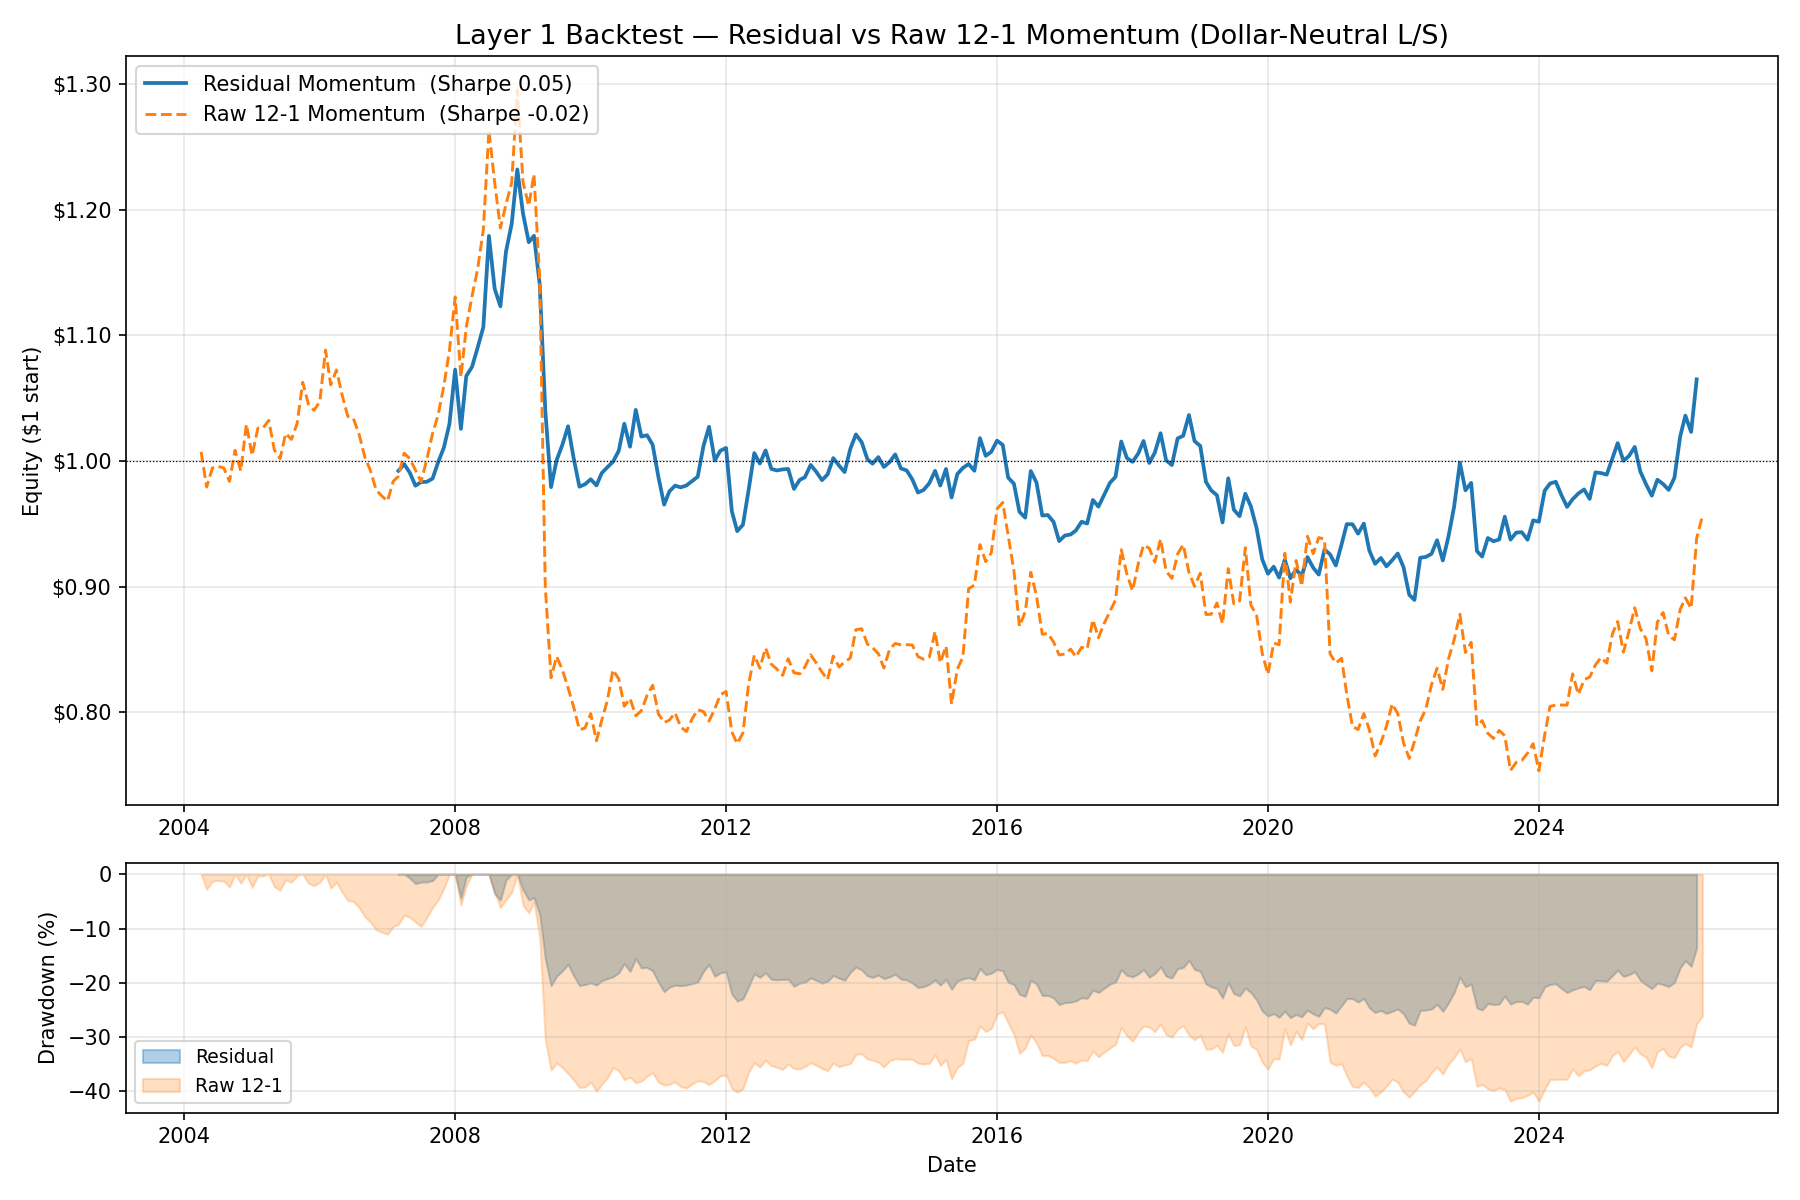
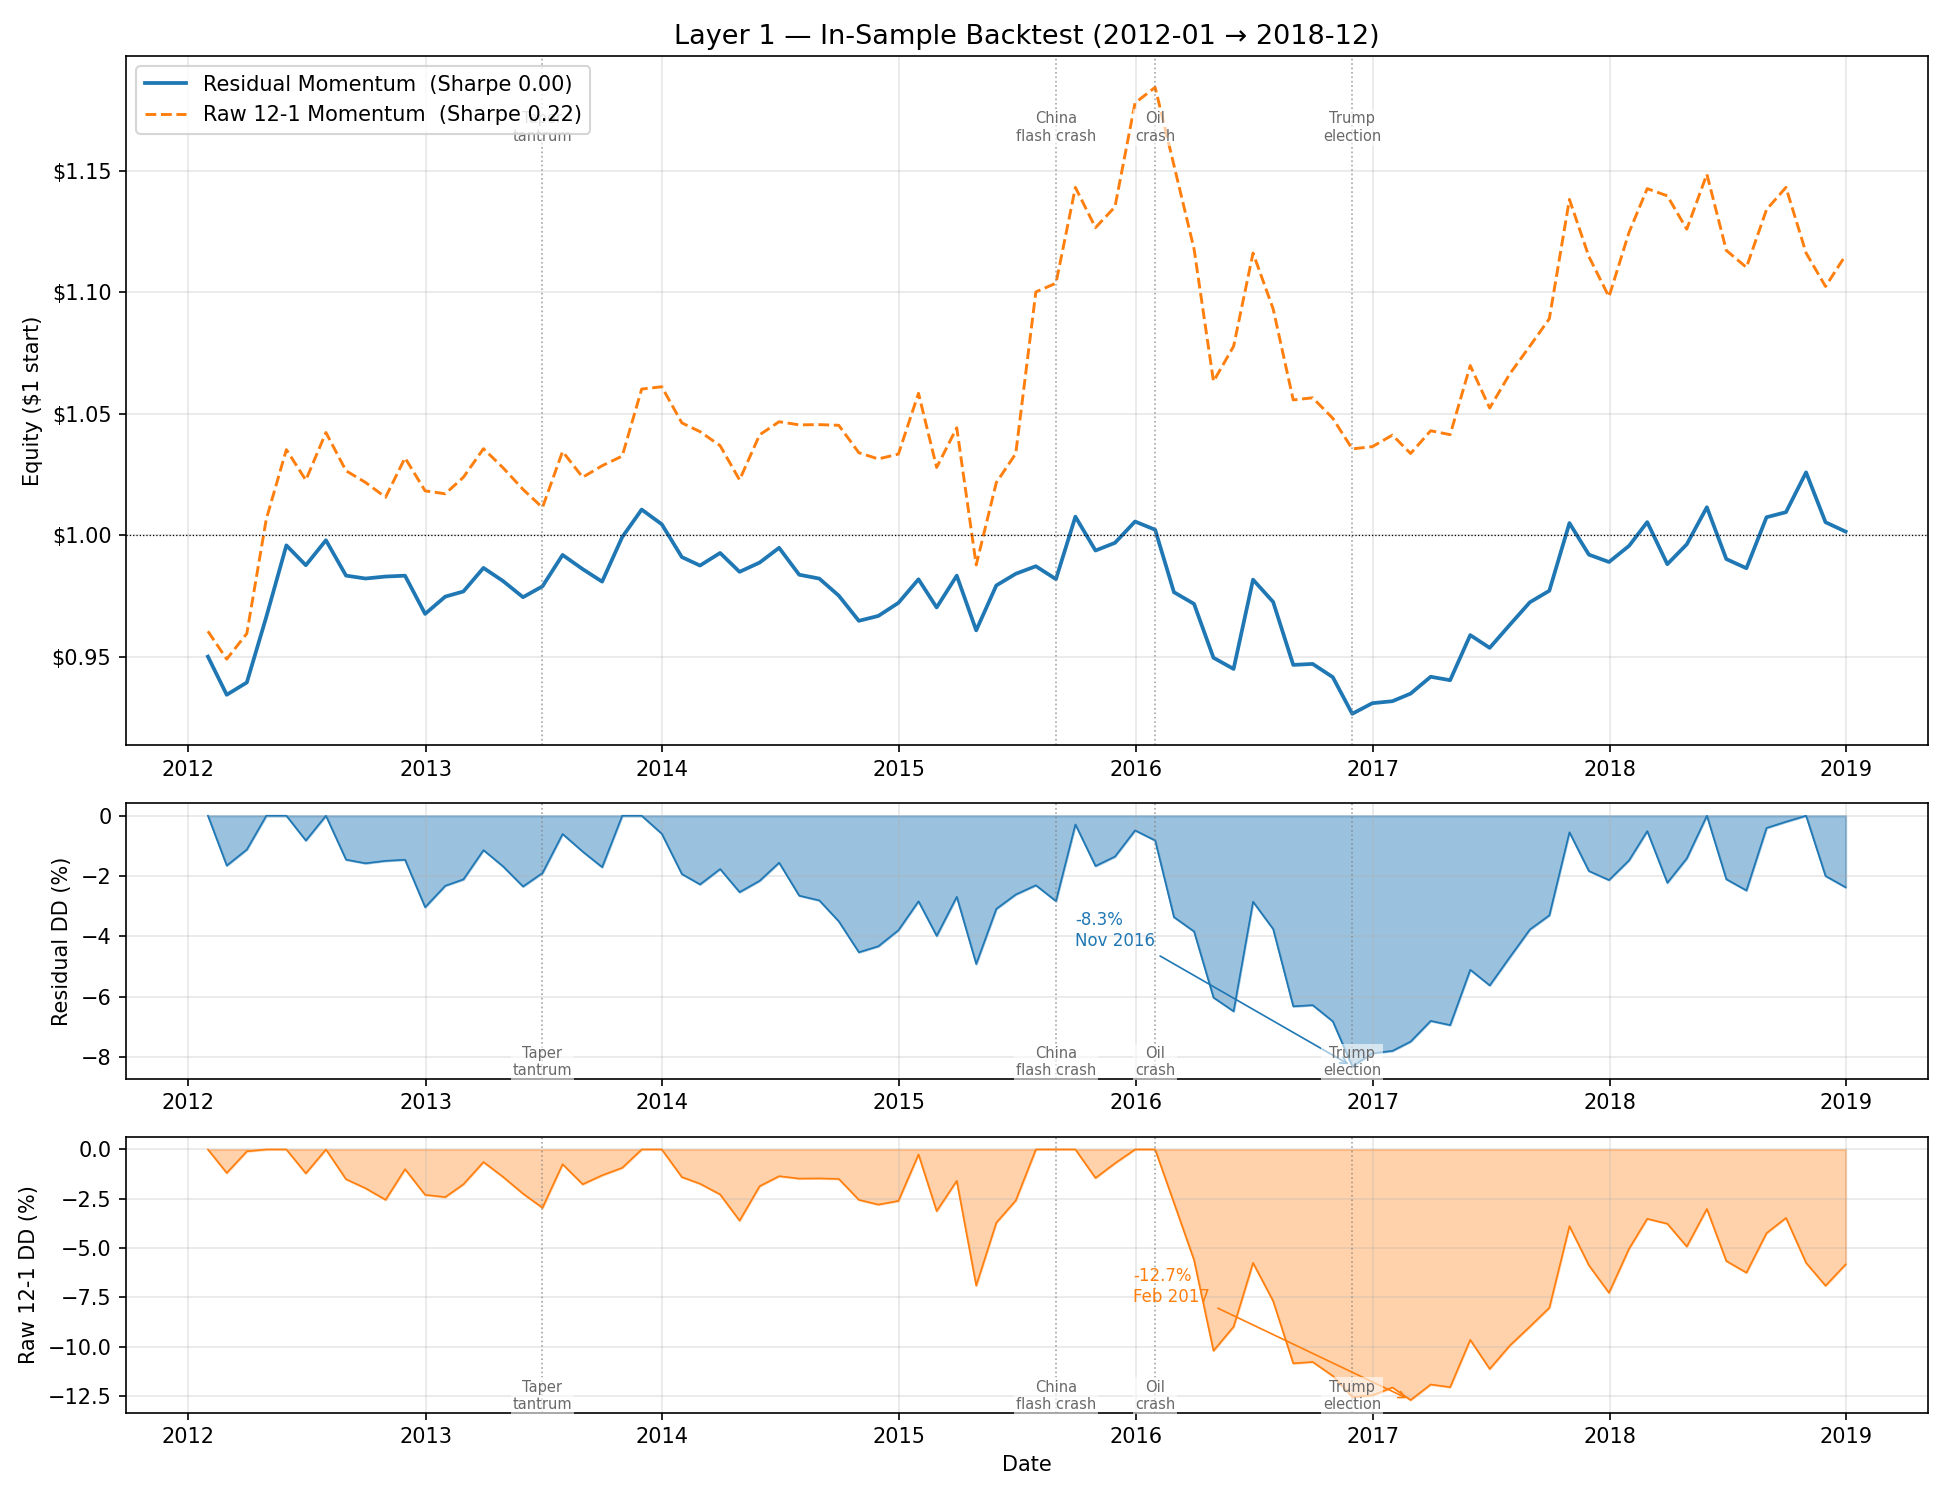
backtest data split when testing, and continued improvements to backtest and layer 1,

diff --git a/layer1_backtest.py b/layer1_backtest.py
@@ -18,6 +18,14 @@ N_LONG          = 50     # top-decile stocks to go long
 N_SHORT         = 50     # bottom-decile stocks to short
 MAX_ABS_RET     = 1.0    # NaN any monthly return beyond +/-100% (bad prints)
 
+# ── In-sample window ─────────────────────────────────────────────────────────
+# Start in 2012 to avoid the 2007-2011 period where ~27% of S&P 500 members
+# have no yfinance data (GFC casualties + M&A targets with lost ticker history).
+# That missing data distorts the short book in exactly the crash years.
+# IS_END stays 2018-12 — expand both dates once all layers are complete.
+IS_START = "2012-01-01"
+IS_END   = "2018-12-31"
+
 # ── 1. Load data ─────────────────────────────────────────────────────────────
 residuals = pd.read_parquet(RESIDUALS_PATH)
 residuals.index = pd.to_datetime(residuals.index)
@@ -81,9 +89,14 @@ res_scores = mom_sum / mom_std   # standardised residual momentum score
 # Same skip-month convention; cumulative raw return over the same window.
 # Scored off the member-masked returns so it ranks the same universe the
 # residual signal does (true point-in-time S&P 500 members only).
+# Clipped to the same start date as the residual signal so both strategies
+# are evaluated over an identical time period — a fair apples-to-apples comparison.
 raw_scores = monthly_ret_member.shift(1).rolling(SCORE_WINDOW).sum()
+common_start = res_scores.dropna(how="all").index.min()
+raw_scores = raw_scores.loc[common_start:]
 
-print(f"\nScore panel (residual): {res_scores.notna().sum().sum():,} valid observations")
+print(f"\nBoth strategies start from: {common_start.date()}")
+print(f"Score panel (residual): {res_scores.notna().sum().sum():,} valid observations")
 print(f"Score panel (raw 12-1): {raw_scores.notna().sum().sum():,} valid observations")
 
 # ── 4. Portfolio construction ─────────────────────────────────────────────────
@@ -102,19 +115,30 @@ def build_weights(score_row, n_long=N_LONG, n_short=N_SHORT):
     return w   # sums to ~0 (dollar-neutral)
 
 # ── 5. Backtest engine ────────────────────────────────────────────────────────
-def run_backtest(scores, label):
+def run_backtest(scores, label, holdings_csv=None):
     """
     For each month t in scores, form the portfolio and measure the return
-    over the following month (t → t+1).
+    over the following month (t → t+1). Optionally log every month's
+    long/short book to a CSV.
     """
-    dates  = sorted(set(scores.index) & set(monthly_ret.index))
-    result = []
+    dates    = sorted(set(scores.index) & set(monthly_ret.index))
+    result   = []
+    holdings = []   # one row per (rebalance_date, ticker, side, weight)
 
     for i, t in enumerate(dates[:-1]):
         t_next = dates[i + 1]
         w = build_weights(scores.loc[t])
         if w is None:
             continue
+
+        # record the book formed at month-end t (held through t_next)
+        for tic, wt in w[w != 0].items():
+            holdings.append({
+                "rebalance_date": t.date(),
+                "side"          : "LONG" if wt > 0 else "SHORT",
+                "ticker"        : tic,
+                "weight"        : round(wt, 5),
+            })
 
         # forward returns: stocks need a price at both t and t+1
         fwd = monthly_ret.loc[t_next]
@@ -136,11 +160,31 @@ def run_backtest(scores, label):
     print(f"\n[{label}] periods traded: {len(df)} | "
           f"avg long legs: {df['n_long'].mean():.0f} | "
           f"avg short legs: {df['n_short'].mean():.0f}")
-    return df["return"]
+
+    hold_df = pd.DataFrame(holdings)
+    if holdings_csv:
+        hold_df.to_csv(holdings_csv, index=False)
+        print(f"[{label}] holdings log → {holdings_csv}  ({len(hold_df):,} position-rows)")
+    return df["return"], hold_df
 
 
-res_returns = run_backtest(res_scores, "Residual Momentum")
-raw_returns = run_backtest(raw_scores, "Raw 12-1 Momentum")
+def print_latest_book(hold_df, label):
+    """Print the most recent month's long/short book to the terminal."""
+    last = hold_df["rebalance_date"].max()
+    book = hold_df[hold_df["rebalance_date"] == last]
+    longs  = sorted(book.loc[book["side"] == "LONG",  "ticker"])
+    shorts = sorted(book.loc[book["side"] == "SHORT", "ticker"])
+    print(f"\n──── {label}: book formed {last} ────")
+    print(f"LONG  ({len(longs)}): {', '.join(longs)}")
+    print(f"SHORT ({len(shorts)}): {', '.join(shorts)}")
+
+
+res_returns, res_holdings = run_backtest(
+    res_scores, "Residual Momentum", holdings_csv="holdings_residual.csv")
+raw_returns, raw_holdings = run_backtest(
+    raw_scores, "Raw 12-1 Momentum", holdings_csv="holdings_raw.csv")
+
+print_latest_book(res_holdings, "Residual Momentum")
 
 # ── 6. Performance metrics ────────────────────────────────────────────────────
 def compute_metrics(returns, label):
@@ -155,40 +199,90 @@ def compute_metrics(returns, label):
           f"Sharpe={sharpe:.2f}  MaxDD={max_dd:.1%}  N={n}mo")
     return {"ann_ret": ann_ret, "ann_vol": ann_vol, "sharpe": sharpe, "max_dd": max_dd}
 
+# clip both return series to in-sample window
+is_start = pd.Timestamp(IS_START)
+is_end   = pd.Timestamp(IS_END)
+res_returns = res_returns[(res_returns.index >= is_start) & (res_returns.index <= is_end)]
+raw_returns = raw_returns[(raw_returns.index >= is_start) & (raw_returns.index <= is_end)]
+
 print("\n" + "="*70)
-print("LAYER 1 PERFORMANCE SUMMARY")
+print(f"LAYER 1 PERFORMANCE — IN-SAMPLE  ({IS_START[:7]} → {IS_END[:7]})")
 print("="*70)
 m_res = compute_metrics(res_returns, "Residual Momentum")
 m_raw = compute_metrics(raw_returns, "Raw 12-1 Momentum")
 
 # ── 7. Equity curves ──────────────────────────────────────────────────────────
-fig, axes = plt.subplots(2, 1, figsize=(12, 8), gridspec_kw={"height_ratios": [3, 1]})
-
-ax1 = axes[0]
-common_idx = res_returns.index.intersection(raw_returns.index)
+fig, axes = plt.subplots(3, 1, figsize=(13, 10),
+                         gridspec_kw={"height_ratios": [3, 1.2, 1.2]})
 
 eq_res = (1 + res_returns).cumprod()
 eq_raw = (1 + raw_returns).cumprod()
+dd_res = (eq_res / eq_res.cummax() - 1) * 100
+dd_raw = (eq_raw / eq_raw.cummax() - 1) * 100
 
-ax1.plot(eq_res, label=f"Residual Momentum  (Sharpe {m_res['sharpe']:.2f})", lw=1.8, color="#1f77b4")
-ax1.plot(eq_raw, label=f"Raw 12-1 Momentum  (Sharpe {m_raw['sharpe']:.2f})", lw=1.4, color="#ff7f0e", linestyle="--")
+# key events within the 2012-2018 in-sample window
+events = {
+    "Taper\ntantrum":    "2013-06-30",
+    "China\nflash crash":"2015-08-31",
+    "Oil\ncrash":        "2016-01-31",
+    "Trump\nelection":   "2016-11-30",
+}
+
+def add_events(ax, ypos_frac=0.92):
+    ylo, yhi = ax.get_ylim()
+    yspan = yhi - ylo
+    for label, date in events.items():
+        t = pd.Timestamp(date)
+        ax.axvline(t, color="gray", lw=0.8, linestyle=":", alpha=0.7)
+        ax.text(t, ylo + yspan * ypos_frac, label,
+                fontsize=7, ha="center", va="top", color="dimgray",
+                bbox=dict(fc="white", ec="none", alpha=0.6, pad=1))
+
+# ── top: equity curves ───────────────────────────────────────────────────────
+ax1 = axes[0]
+ax1.plot(eq_res, label=f"Residual Momentum  (Sharpe {m_res['sharpe']:.2f})",
+         lw=1.8, color="#1f77b4")
+ax1.plot(eq_raw, label=f"Raw 12-1 Momentum  (Sharpe {m_raw['sharpe']:.2f})",
+         lw=1.4, color="#ff7f0e", linestyle="--")
 ax1.axhline(1, color="black", lw=0.6, linestyle=":")
-ax1.set_title("Layer 1 Backtest — Residual vs Raw 12-1 Momentum (Dollar-Neutral L/S)", fontsize=13)
+ax1.set_title(f"Layer 1 — In-Sample Backtest ({IS_START[:7]} → {IS_END[:7]})", fontsize=13)
 ax1.set_ylabel("Equity ($1 start)")
 ax1.legend(loc="upper left", fontsize=10)
 ax1.yaxis.set_major_formatter(mtick.FuncFormatter(lambda x, _: f"${x:.2f}"))
 ax1.grid(alpha=0.3)
+add_events(ax1)
 
-# Drawdown panel
-dd_res = (eq_res / eq_res.cummax() - 1) * 100
-dd_raw = (eq_raw / eq_raw.cummax() - 1) * 100
+# ── middle: residual drawdown (its own panel so scale isn't squashed by raw) ─
 ax2 = axes[1]
-ax2.fill_between(dd_res.index, dd_res, 0, alpha=0.35, color="#1f77b4", label="Residual")
-ax2.fill_between(dd_raw.index, dd_raw, 0, alpha=0.25, color="#ff7f0e", label="Raw 12-1")
-ax2.set_ylabel("Drawdown (%)")
-ax2.set_xlabel("Date")
-ax2.legend(loc="lower left", fontsize=9)
+ax2.fill_between(dd_res.index, dd_res, 0, alpha=0.45, color="#1f77b4")
+ax2.plot(dd_res, lw=0.8, color="#1f77b4")
+# annotate the max drawdown point
+worst_date = dd_res.idxmin()
+worst_val  = dd_res.min()
+ax2.annotate(f"{worst_val:.1f}%\n{worst_date.strftime('%b %Y')}",
+             xy=(worst_date, worst_val),
+             xytext=(worst_date - pd.DateOffset(months=14), worst_val + 4),
+             fontsize=8, color="#1f77b4",
+             arrowprops=dict(arrowstyle="->", color="#1f77b4", lw=0.8))
+ax2.set_ylabel("Residual DD (%)")
 ax2.grid(alpha=0.3)
+add_events(ax2, ypos_frac=0.12)
+
+# ── bottom: raw drawdown ──────────────────────────────────────────────────────
+ax3 = axes[2]
+ax3.fill_between(dd_raw.index, dd_raw, 0, alpha=0.35, color="#ff7f0e")
+ax3.plot(dd_raw, lw=0.8, color="#ff7f0e")
+worst_date_raw = dd_raw.idxmin()
+worst_val_raw  = dd_raw.min()
+ax3.annotate(f"{worst_val_raw:.1f}%\n{worst_date_raw.strftime('%b %Y')}",
+             xy=(worst_date_raw, worst_val_raw),
+             xytext=(worst_date_raw - pd.DateOffset(months=14), worst_val_raw + 5),
+             fontsize=8, color="#ff7f0e",
+             arrowprops=dict(arrowstyle="->", color="#ff7f0e", lw=0.8))
+ax3.set_ylabel("Raw 12-1 DD (%)")
+ax3.set_xlabel("Date")
+ax3.grid(alpha=0.3)
+add_events(ax3, ypos_frac=0.12)
 
 plt.tight_layout()
 plt.savefig("layer1_backtest.png", dpi=150)